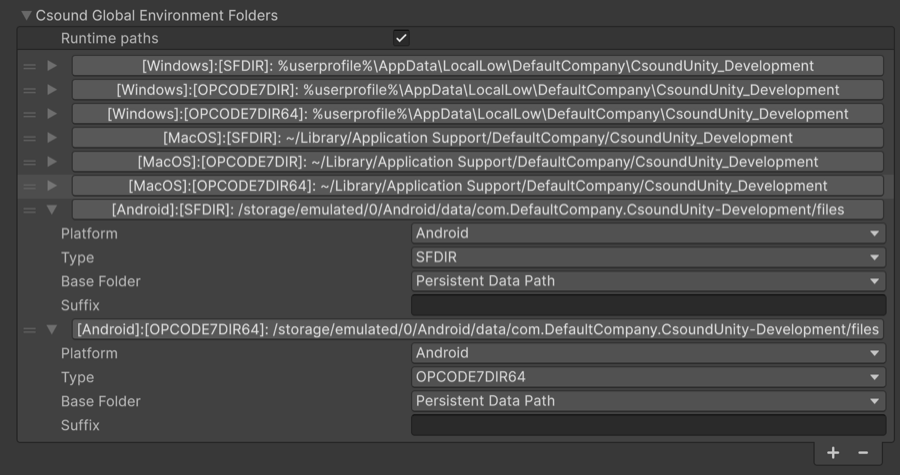
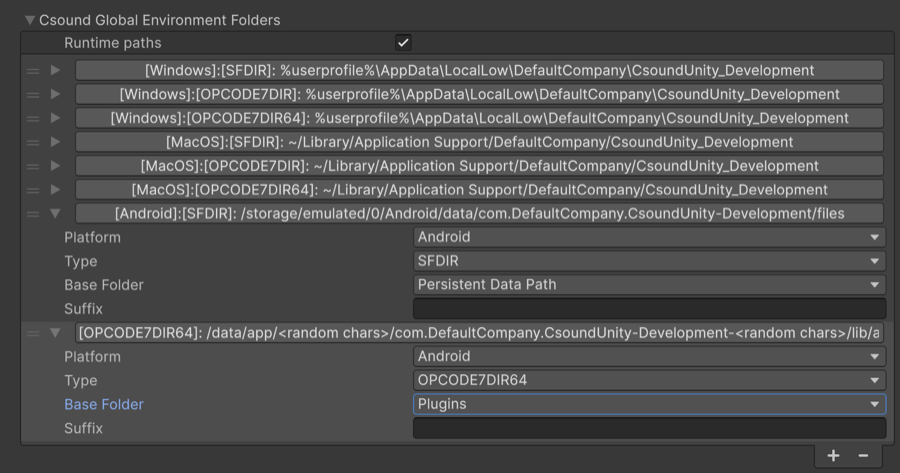
docs(site): update docs

diff --git a/docs/environment_variables.md b/docs/environment_variables.md
@@ -86,4 +86,4 @@ Also be sure to set the *OPCODE7DIR64* to *Plugins*, so that CsoundUnity will tr
 The Suffix folder will be ignored.
   
 You can still set the *SFDIR* in another location to load sound files or any additional files, like in the example below:  
-<img src="images/plugin_settings.png" alt="Environment settings for Android" width="900" height="475"/>
+<img src="images/plugin_settings.png" alt="Environment settings for Android" width="900" height="473"/>
